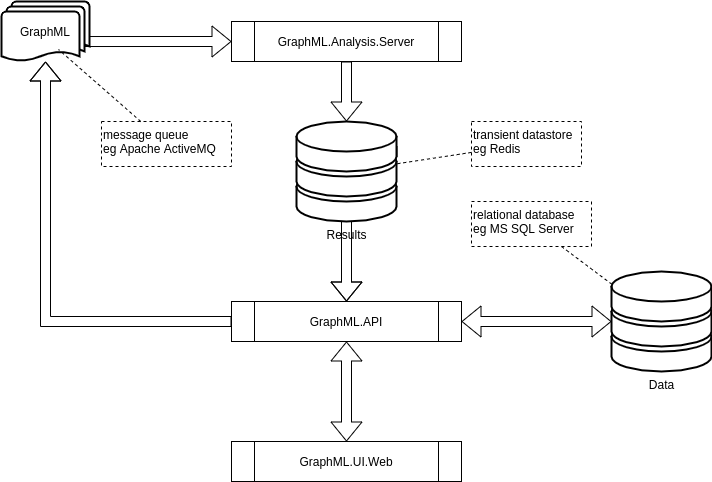
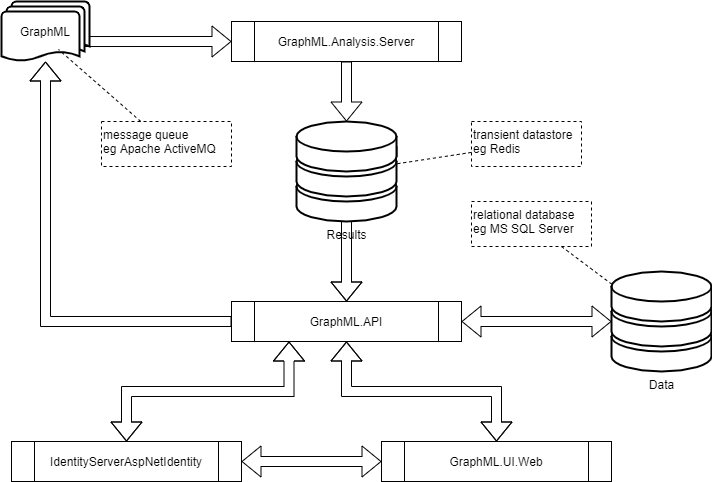
- updated docs

diff --git a/README.md b/README.md
@@ -123,10 +123,6 @@ DATASTORE_CONNECTION_STRING  | | Data Source=&#124;DataDirectory&#124;Data/Graph
 LOG_CONNECTION_STRING | |
 LOG_BEARER_AUTH       | | False
 ||
-OIDC_USERINFO_URL | |
-OIDC_ISSUER_URL   | |
-OIDC_AUDIENCE     | |
-||
 RESULT_DATASTORE | | localhost:6379
 ||
 KESTREL_URL                  | | http://localhost:5000
@@ -139,15 +135,22 @@ MESSAGE_QUEUE_USE_THREADS       | | False
 </details>
 </details>
 
+## Overview
+<details><p/>
+
+  ![GraphML.Overview](Docs/GraphML.Overview.png "GraphML.Overview")
+
+</details>
+
 ## Architecture
-<details>
+<details><p/>
 
   ![GraphML.Architecture](Docs/GraphML.Architecture.png "GraphML.Architecture")
 
 </details>
 
 ## Analysis
-<details>
+<details><p/>
 
   ![GraphML.Analysis](Docs/GraphML.Analysis.Sequence.png "GraphML.Analysis")
 
@@ -192,7 +195,7 @@ MESSAGE_QUEUE_USE_THREADS       | | False
 ### Port Allocations
 | Service | Port | Notes |
 |---------|------|-------|
-| IdentityServer | 5000 |
+| IdentityServerAspnetIdentity | 44387 |
 | GraphML.API | 5001 |
 | GraphML.UI.Web | 5002 |
 | Apache ActiveMQ | 61616 |
